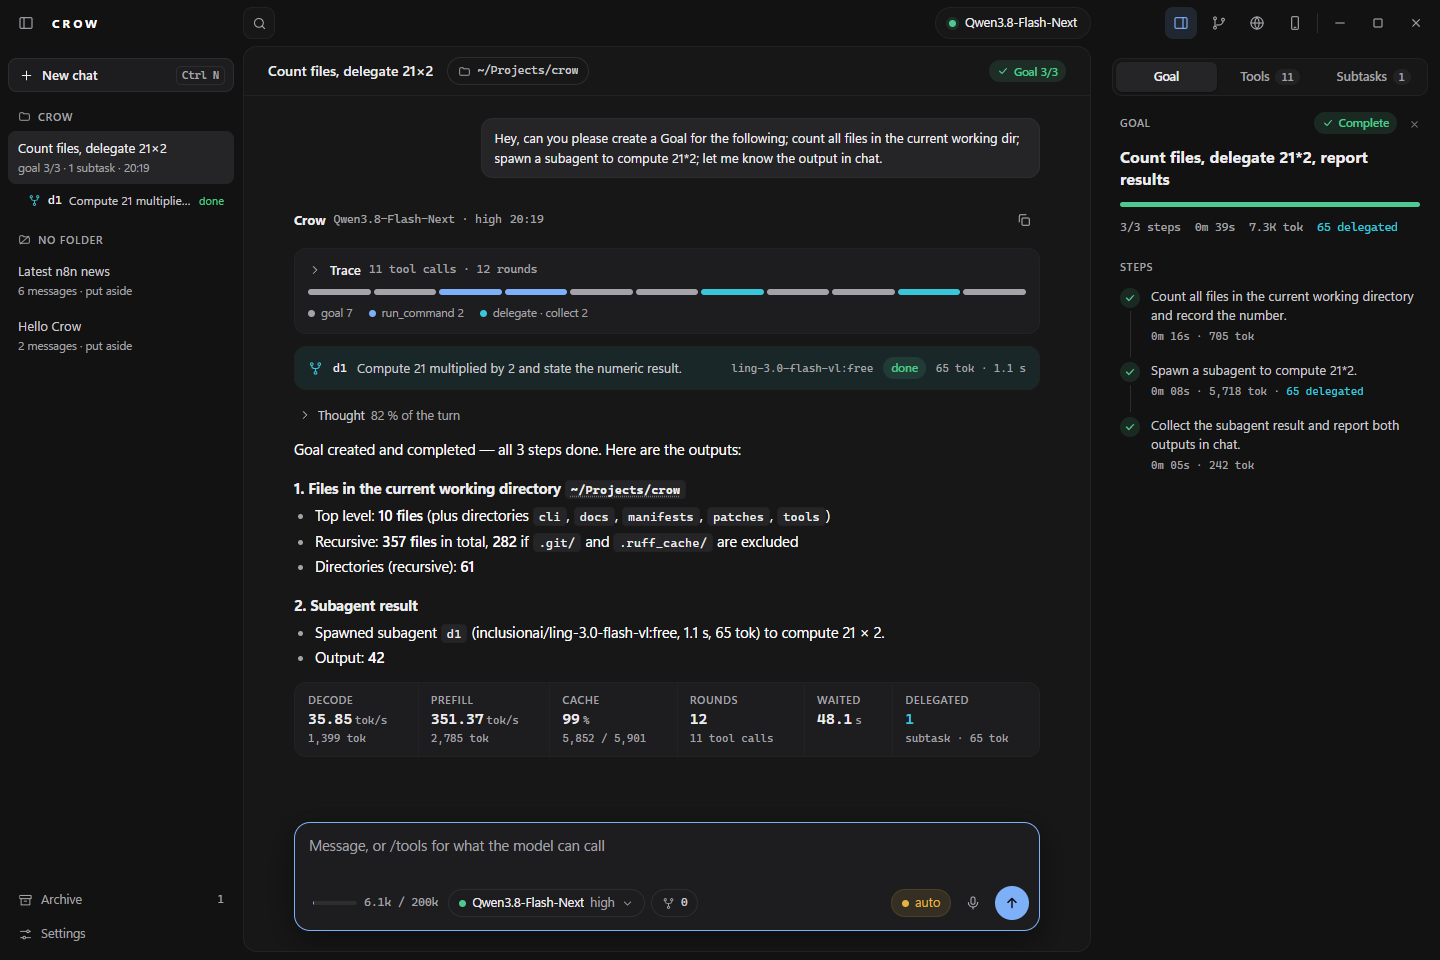
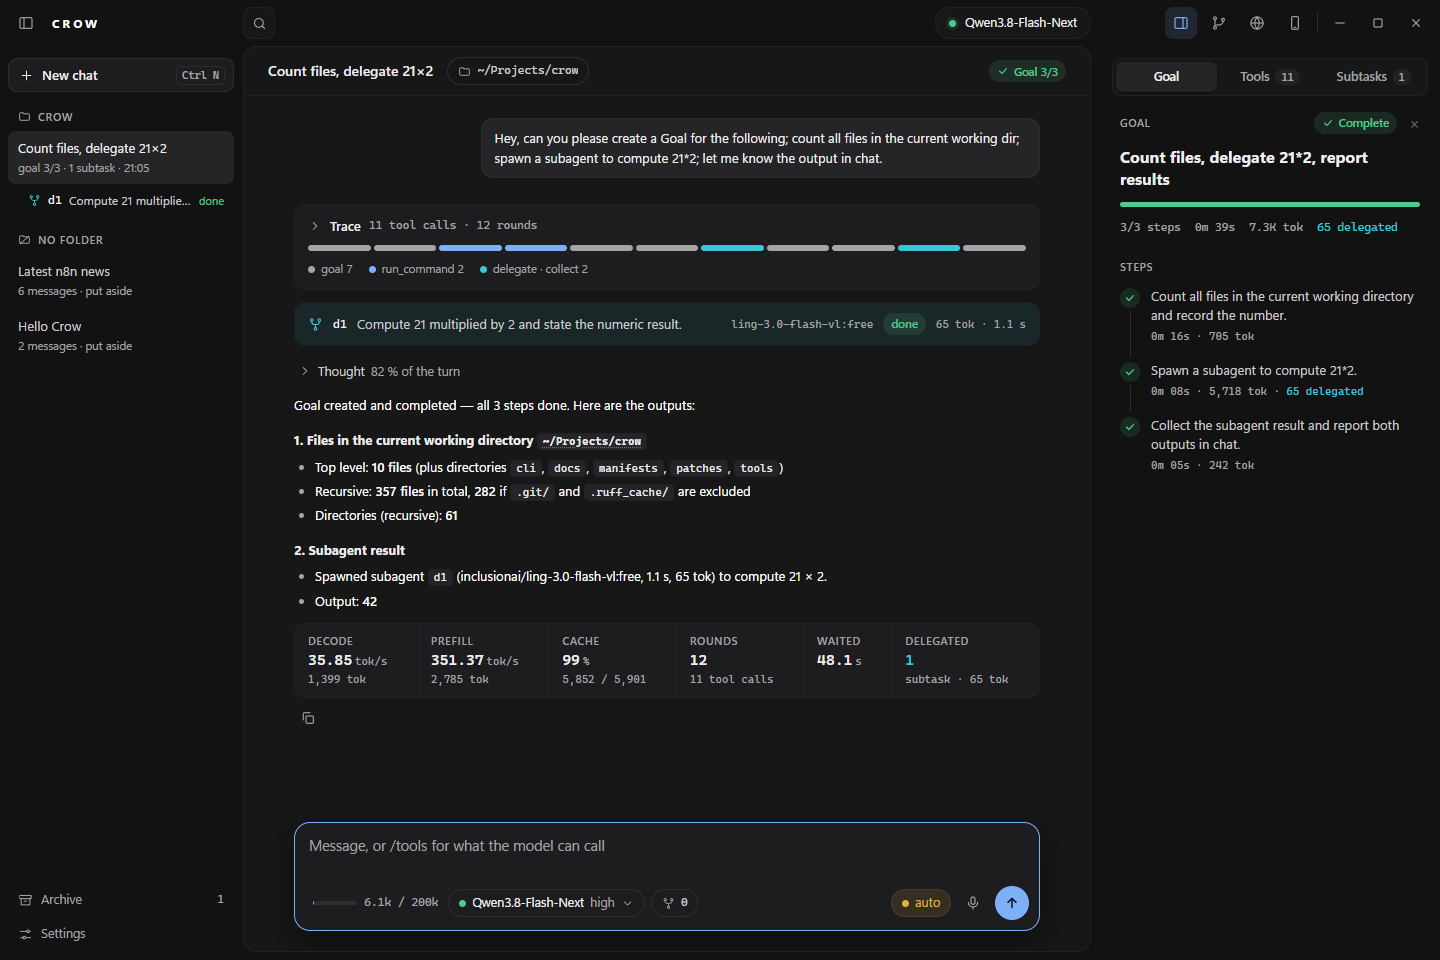
docs: the copy button under the answer and the user's size, images re-rendered (#383)

diff --git a/CHANGELOG.md b/CHANGELOG.md
@@ -11,7 +11,7 @@ The window as in the October mockup (#380). Every render named below is `tools/r
 
 - **The title bar searches chats and commands** (#386, `8e93d3b`, `87c38c2`, 2026-10-14). A 32 px magnifier over the chat panel's left edge; a click on it, Tab or Ctrl+K (from anywhere, the composer included) opens the field to about 300 px. Under it, at most 8 rows: Chats whose title or folder name contains the query (case-insensitive, in the rail's order, archived ones after them and marked) and Commands, the composer's slash commands. Up/Down move, Enter opens the chat or puts the command into the composer, Escape closes the list, clears the query and folds the field. A press in the field selects text instead of dragging the window (pywebview 6.2.1 starts a window drag for any press in the title bar's drag region). Messages are not searched; that stays the model's `session_search`. Rendered with the goal-run fixture at 1440×960: `count` lists "Count files, delegate 21×2" first, `/go` lists `/goal`, `crow` + ArrowDown + Enter opens the second result, `/del` + Enter leaves `/delegate` in the composer, Escape folds the field 300.9 → 32 px.
 - **A start screen for an empty chat** (#385, `08e6c24`, 2026-10-14). The mark (200 px), the greeting (26 px), the composer centred under them with the folder chip in its row, then **Continue** with up to two cards of the newest other chats (`crow · goal 3/3 · 16:41`), each opening its chat. The first line you send puts the composer back at the bottom. Rendered with the new fixture `tools/fixtures/new-chat-2026-10-14.json` at 1440×900: the group's centre 469.0 px = the panel's centre, the composer's top 26.0 px under the greeting. It pads 40 px top and bottom, not the mockup's 40/64, which puts the group 12 px above centre.
-- **Each Crow turn has a head** (#383, `c323eb7`, 2026-10-14): `Crow`, the model and reasoning level, the local start time (`HH:MM`), and a button that copies that turn's answer. A turn redrawn from a saved chat has no model or time: the replay carries neither.
+- **A copy button under each answer** (#383, `2460c13`, 2026-10-14): one icon after the telemetry strip copies that turn's answer, prose and code, live and replayed turns alike. A head line over the turn (`Crow`, model, level, time and the copy button, `c323eb7`) was built and dropped the same day on the owner's word: it repeated the title-bar chip, and its copy button beside the model name read as copying the model name.
 - **A chat head and Ctrl+N** (#385, `08e6c24`, 2026-10-14). Over the conversation: the chat's title, the folder chip (moved here from the composer row), the branch of the folder's repository (hidden without one) and a `Goal 3/3` pill that opens the inspector's Goal tab; hidden on an empty chat. Ctrl+N starts a new chat from anywhere, the composer included, as the rail's **New chat** does.
 
 ### Changed
@@ -22,7 +22,7 @@ The window as in the October mockup (#380). Every render named below is `tools/r
 - **The stats under an answer are a telemetry strip without a horizontal scrollbar** (#383, `c323eb7`, `1c726db`, 2026-10-14). The bracketed one-line string scrolled sideways and was cut off at the right edge in `docs/images/window-goal-2026-09-16.png`. It is now labelled cells that wrap: Decode, Prefill, Cache, Rounds, Waited, and Delegated when the turn delegated; a cut-off turn says so in a line under the strip. Rendered with the goal-run fixture and a 340 px inspector: six cells in one row at 1440×960 (744 of 744 px), four plus two at 1180×800 (484 of 484 px), no scroll; Decode 35.85 tok/s / 1,399 tok, Prefill 351.37 tok/s / 2,785 tok, Cache 99 % / 5,852 / 5,901, Rounds 12 / 11 tool calls, Waited 48.1 s, Delegated 1 / subtask · 65 tok. A turn redrawn from a saved chat shows no strip: the replay carries no numbers.
 - **The Trace is a strip of the turn's tool calls** (#383, `c323eb7`, 2026-10-14). Its head reads `Trace · 11 tool calls · 12 rounds` instead of `Trace · N rounds` and still folds the earlier rounds; under it one segment per call in the colour of its kind (goal tools, delegation, the rest; a failed call red) and a legend. A click on a segment opens that call in the Tools tab. Rendered: 11 segments, 7 goal, 2 other, 2 delegation.
 - **A delegated subtask is a one-line card where it was delegated** (#383, `c323eb7`, 2026-10-14): fork, id, task, model (hidden under 760 px), status and `tok · s`, redrawn as it runs; a click opens it in the Subtasks tab, where the full card stays. This reverses #255's "never a block of the chat" for that one line. Rendered: d1 `done`, `65 tok · 1.1 s`.
-- **Answer prose is 14.5 px** (#383, `66203cc`, 2026-10-14), up from 13; headings 16 / 15 / 14.5 px, inline code as a small chip, and the Thought fold a chevron, `Thought` and `82 % of the turn` without its border bar.
+- **Crow's answer is the size of the user's bubble** (#383, `2460c13`, 2026-10-14): 13 px, as the bubble, which inherits the window's 13 px; headings 15 / 14 / 13 px, inline code as a small chip, and the Thought fold a chevron, `Thought` and `82 % of the turn` without its border bar. The mockup's 14.5 px (`66203cc`) set Crow's text larger than the owner's own; he asked for one size.
 - **The rail and the composer as in the mockup** (#385, `08e6c24`, 2026-10-14). Rail: a full-width **New chat** with `Ctrl N`, chats under their folders and loose ones under **No folder** instead of "Chats", each row a title and a second line (`goal 3/3 · 1 subtask · 16:41` for a chat with a goal), no accent bar, subtask rows with a fork, id, task and state, and **Archive** and **Settings** at the foot. Composer: one row with the context meter, the model chip, the subtask chip, the release level, the microphone and a round send. Rendered with the goal-run fixture at 1440×960: your bubble's right edge on the box's right border (1120 = 1120) and the answer's left edge on its left border (294 = 294), 0 px as #280 asks.
 - **The phone mirror wears the redesign** (#387, `5bb9073`, 2026-10-14). Header: rail, CROW, a search that opens across the header, the model chip (short name; a tap adds decode rate and context), the inspector toggle. The inspector is the right drawer with Goal, Tools, Subtasks and Git tabs; Git is no longer a drawer of its own, and there is no Browser tab (a phone has no live page). The chat head's goal pill replaces the goal bar, the telemetry is a 3-column grid, the subtask card drops the model, and the start screen stacks; on the start screen the `+` sheet holds the folder chip, Settings in the rail is a 44 px row, and trace segments get a 20 px tap band. The desktop page is byte-identical (`stamped_page()` compared). Rendered with `--remote` at 390×844, goal-run fixture: `scrollWidth` 390 in the chat, the open drawer, the open search, the start screen and the light theme; header targets 44×44 (model chip 84×44); drawer tabs 44 px high; telemetry 3 × 120 px, `scrollWidth` 360 = `clientWidth` 360; start screen mark 120 px, greeting 20 px, 2 cards.
 

diff --git a/docs/user-guide/window.md b/docs/user-guide/window.md
@@ -7,7 +7,7 @@
 </div>
 
 <div align="center">
-<img src="../images/window-goal-2026-10-14.png" alt="The goal run of 2026-09-16, rendered by tools/render_window.py from the goal-run fixture: the chat head with folder chip and Goal 3/3 pill, the turn head, the trace strip of 11 tool calls, the one-line d1 subtask card, the folded Thought, the answer, the telemetry strip, and the inspector open on its Goal tab at 3/3" width="920">
+<img src="../images/window-goal-2026-10-14.png" alt="The goal run of 2026-09-16, rendered by tools/render_window.py from the goal-run fixture: the chat head with folder chip and Goal 3/3 pill, the trace strip of 11 tool calls, the one-line d1 subtask card, the folded Thought, the answer, the telemetry strip with the copy button under it, and the inspector open on its Goal tab at 3/3" width="920">
 </div>
 
 Both pictures are rendered by `tools/render_window.py` (#381) in headless Chrome, dark, from `tools/fixtures/new-chat-2026-10-14.json` (with the name taken out of its greeting, as the window greets without one) at 1440×900 and `tools/fixtures/goal-run-2026-09-16.json` at 1440×960, not taken from a live window.
@@ -22,12 +22,12 @@ Both pictures are rendered by `tools/render_window.py` (#381) in headless Chrome
 | Chat head | over the conversation: the chat's title, the folder chip (the working directory and its menu, moved here from the composer row), the branch of that folder's repository (hidden without one), and a `Goal 3/3` pill that opens the Goal tab. The pill and the rail row of the chat in view show the folder's goal (`goal.json` belongs to the folder); other rows show what their own goal tools last returned. Hidden on an empty chat (#385) |
 | Start screen | an empty chat: the mark (200 px), the greeting (26 px), the composer centred under them with the folder chip in its row, then **Continue** with up to two cards of the newest other chats (`crow · goal 3/3 · 16:41`, `no folder · 6 messages · put aside`), each opening its chat; with no other chat there is no such section. The first line you send puts the composer back at the bottom. Rendered 2026-10-14 (new-chat fixture, 1440×900): the group's centre 469.0 px = the panel's centre, the composer's top 26.0 px under the greeting. It pads 40 px top and bottom, not the mockup's 40/64, which puts the group 12 px above centre (#385) |
 | Composer | one row under the input: the context meter (a 44 px bar and `6.1k / 200k`), the model and reasoning level as one chip with its menu, the subtask chip (a fork and the count, once anything was delegated), the release level (`auto` on a warn tint; the other levels keep their colours), dictation, and a round send button whose Stop and Queue states are unchanged. 16 px corners, an accent border on focus, 14.5 px text (#385). The working directory is in the chat head |
-| Turn head | the first line of a Crow turn: `Crow`, the model and reasoning level, the local time it started (`HH:MM`), and at the right a button that copies that turn's answer, prose and code, through the path the right-click `Copy` uses. A turn redrawn from a saved chat has no model or time; the replay carries neither (#383) |
+| Copy | one button under each answer, after the telemetry strip: it copies that turn's answer, prose and code, through the path the right-click `Copy` uses, for live and replayed turns alike. There is no head line over a turn: the model is in the title-bar chip (#383) |
 | Trace | the strip above the answer (#383). Its head, `Trace · 11 tool calls · 12 rounds` (was `Trace · N rounds`), is a disclosure that still folds the earlier rounds. Under it a 6 px bar with one segment per tool call in order — goal tools grey, `delegate`/`collect`/`subtasks`/`verify` in the subtask colour, every other tool in the accent, a failed call red — and a legend (`goal 7 · run_command 2 · delegate · collect 2`). A click on a segment opens that call in the Tools tab, the inspector too when it is shut. Shown once the turn has a call or a folded round. Rendered (goal-run fixture): 11 segments, 7 goal, 2 other, 2 delegation |
 | Subtask in the flow | where `delegate` was called, a one-line card: fork, id, task, model (hidden under 760 px), status and `tok · s`, redrawn as the subtask runs; a click opens it in the Subtasks tab, which holds the full card. This reverses #255's "never a block of the chat" for that one line (#383). Rendered: d1 `done`, `65 tok · 1.1 s` |
 | Thought | folded, one per re-entry: a chevron, `Thought`, and the turn's thinking share (`82 % of the turn`), with no border bar (#383) |
 | Telemetry strip | under each answer, in place of the bracketed cost line that scrolled sideways (#383): labelled cells that wrap — **Decode** rate and tokens, **Prefill** rate and tokens, **Cache** share and `cached / of`, **Rounds** and the tool calls (`, N failed`, `, N declined`), **Waited** (split into model and tools from 0.5 s of tool time), and **Delegated** (subtasks and their tokens) when the turn delegated. The numbers are formatted as the core's `TurnCost.line()` does; a cut-off turn adds the core's note in a line under the strip. A cell never breaks inside itself. Rendered 2026-10-14 (goal-run fixture, 340 px inspector): six cells in one row at 1440×960 (744 of 744 px), four plus two at 1180×800 (484 of 484 px), no horizontal scroll. A turn redrawn from a saved chat shows no strip; the replay carries no numbers |
-| Answers | headings, lists, tables, bold, italic, inline code and links, drawn when the turn ends. Prose 14.5 px, headings 16 / 15 / 14.5 px, inline code as a small chip (#383) |
+| Answers | headings, lists, tables, bold, italic, inline code and links, drawn when the turn ends. Prose 13 px, the size of the user's bubble; headings 15 / 14 / 13 px, inline code as a small chip (#383) |
 | Links and paths | http(s) URLs and file paths (POSIX and Windows, with `:line` or `:line:col`) are marked in answers, inline code and tool results. A click on a link opens it as a new tab in the inspector's Browser tab (#384). `_` inside a word or a URL is no longer emphasis (CommonMark 6.2) (#229) |
 | Selecting and copying | content text selects and copies; controls do not. WebKitGTK 2.52 ignores the unprefixed `user-select`, and pywebview's `text_select=False` had injected `body{-webkit-user-select:none}`, so on Linux nothing could be selected before #228. Ctrl+C copies the selection (also through Python's clipboard path); on a focused link or path with nothing selected it copies the target |
 | Right-click on content | a menu built from what is under the pointer: `Copy` (a selection), `Open in Crow's browser` / `Open in system browser` / `Copy link` (a link), `Copy path`, `Copy path:line[:col]`, `Show in file manager`, and for an `.html`/`.htm`/`.svg` path `Open in Crow's browser` (a path). Never "open with the default program". Up/Down/Home/End move, Escape closes (#228, #229). The rail keeps its own menu |

diff --git a/docs/user-guide/remote.md b/docs/user-guide/remote.md
@@ -18,7 +18,7 @@ phone. (#249).
 ## On the phone (#387)
 
 <div align="center">
-<img src="../images/window-phone-2026-10-14.png" alt="The phone page at 390×844, rendered by tools/render_window.py --remote from the goal-run fixture: the header with rail toggle, CROW, magnifier, model chip and inspector toggle; the chat head with the folder chip and the Goal 3/3 pill; the turn head, the trace strip, the one-line d1 subtask card, the folded Thought and the answer; the one-row composer" width="300">
+<img src="../images/window-phone-2026-10-14.png" alt="The phone page at 390×844, rendered by tools/render_window.py --remote from the goal-run fixture: the header with rail toggle, CROW, magnifier, model chip and inspector toggle; the chat head with the folder chip and the Goal 3/3 pill; the trace strip, the one-line d1 subtask card, the folded Thought and the answer; the one-row composer" width="300">
 </div>
 
 Below 700 px the phone shows the window's own page, redesigned with it (#380), in phone form. The
